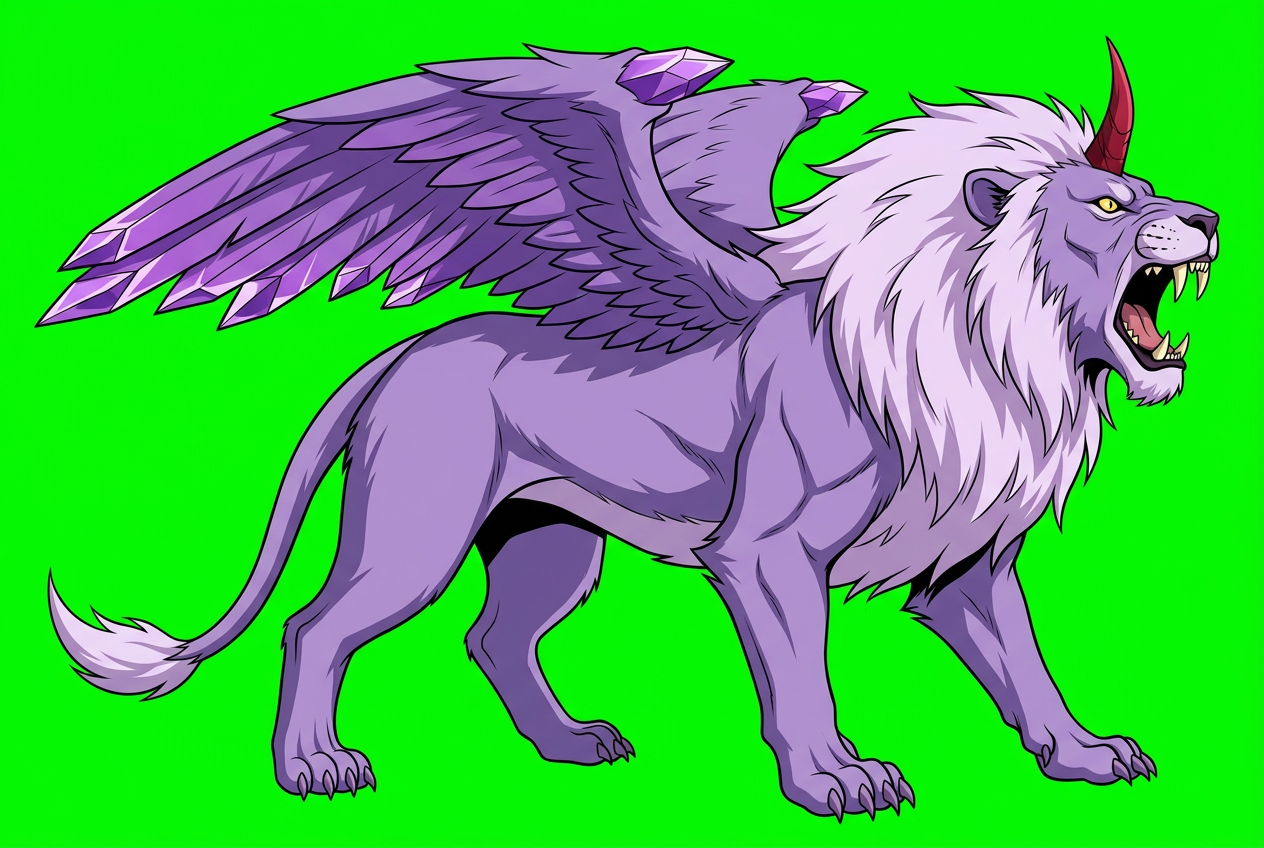
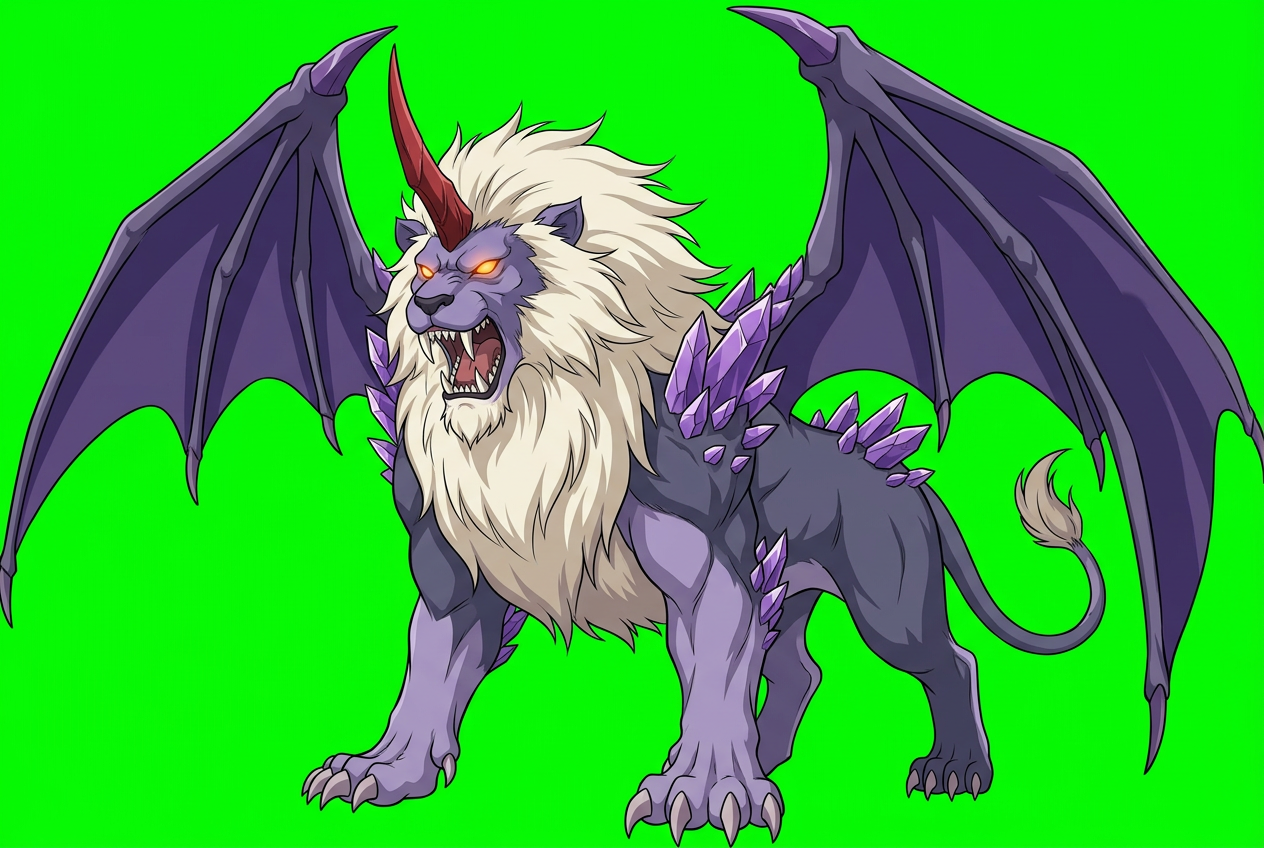
漫画复核: 紫晶翼狮王重画(27-28话)

diff --git a/dev/design/漫画复核进度.md b/dev/design/漫画复核进度.md
@@ -26,3 +26,5 @@
 | 穆蛇 | mushe | 31-32（青山镇 Boss 战）+25-02 | ❌→已重画（原为狼皮披风；漫画为红色长卷发、左颊X形疤、黑褐长大衣+白色卷纹肩饰、红条白内衫、金项链、红橙金前摆） |
 | 赫蒙 | hemeng | 25-20 | ❌→已重画（补上左眼眼罩、络腮胡；衣服原本一致） |
 | 穆力 | muli | 21/25 | 🔧→已重画（补上虎纹兽皮披肩、绿松石串珠腰绳、胸前白斜带） |
+| 紫晶翼狮王 | b_lion | 27-03/04, 28-15 | ❌→已重画（原为羽毛翼+粉紫毛；漫画为深紫蝙蝠膜翼、奶白鬃毛、灰紫身体、肩背紫水晶刺、额前红色长弯角、橙眼） |
+| 疾风狼/紫影魔狼/火纹魔狼 | e_wolf* | 漫画未出现（小说魔兽） | ⏸ 待用户决定（漫画中魔兽山脉出现的是：小红=萧炎的红狼坐骑(漫画原创,25话起)、白色魔猿(25-26话)、棕色獠牙巨兽(27-12)） |
